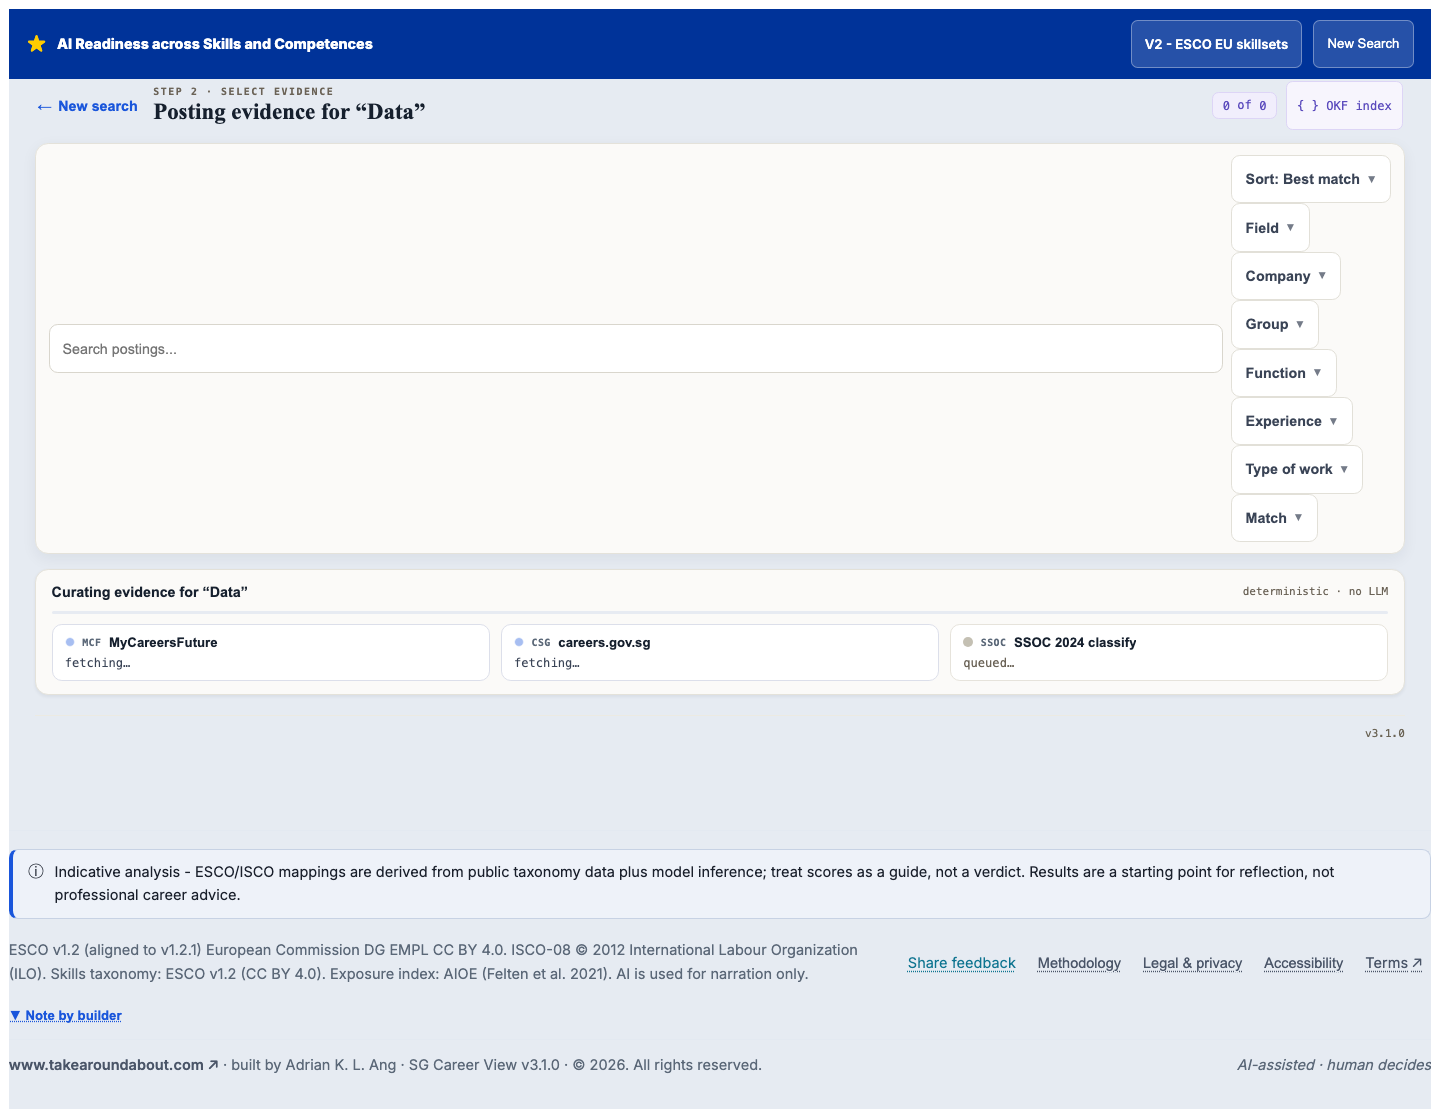
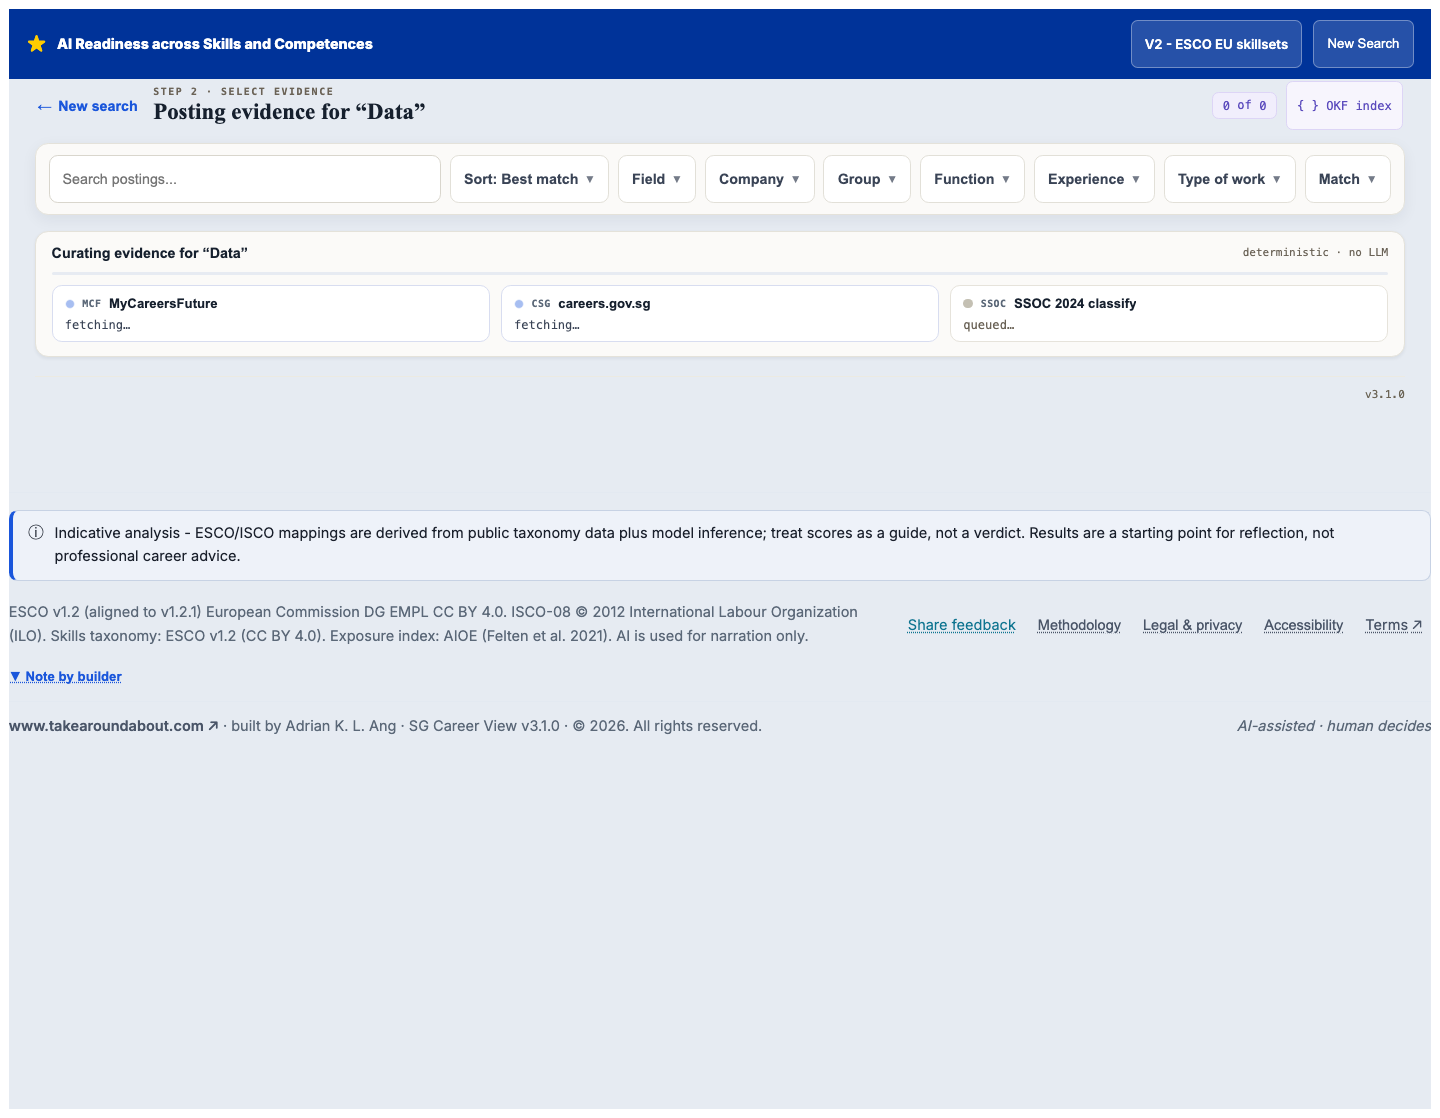
Keep Step 2 desktop filters compact (#485)
* fix(v3.1): keep Step 2 desktop filters compact

* docs(v3.1): refresh Step 2 toolbar evidence

diff --git a/v3.1/doc/V3-Step2-Agent-Readable-Feature-Map.html b/v3.1/doc/V3-Step2-Agent-Readable-Feature-Map.html
@@ -213,7 +213,7 @@
       <aside class="meta" aria-label="Map metadata">
         <p><strong>Manifest</strong><a href="v3-step2-feature-map.manifest.json">v3-step2-feature-map.manifest.json</a></p>
         <p><strong>Implementation source</strong><code>v3.1/src/App.jsx :: PostingEvidencePicker</code></p>
-        <p><strong>Source baseline</strong><code>7da49403434d5c2791e70a36440ba19fe120efa6</code></p>
+        <p><strong>Source baseline</strong><code>1a043664434ae9c3c2cd21850ed23df50138fb66</code></p>
         <p><strong>Boundary</strong>Audit corrections only; no Step 2 workflow redesign.</p>
       </aside>
     </header>
@@ -270,8 +270,8 @@
       <article class="node filter" data-feature-id="FEAT-STEP2-FILTER-001">
         <div class="id">FEAT-STEP2-FILTER-001</div>
         <h3>Derived Filters</h3>
-        <p>Search, sort and facets recompute the derived list. Clear all restores the merged source set without re-fetching.</p>
-        <div class="tag-row"><span class="tag">STATE-STEP2-FILTER-001</span><span class="tag">TRANS-STEP2-CLEAR-001</span></div>
+        <p>Search, sort and facets recompute the derived list. Clear all restores the merged source set without re-fetching. At 1440px the toolbar remains within two rows and 120px height.</p>
+        <div class="tag-row"><span class="tag">STATE-STEP2-FILTER-001</span><span class="tag">TRANS-STEP2-CLEAR-001</span><span class="tag">INV-STEP2-DESKTOP-FILTERBAR-001</span></div>
       </article>
       <article class="node classify" data-feature-id="FEAT-STEP2-CLASSIFY-001">
         <div class="id">FEAT-STEP2-CLASSIFY-001</div>
@@ -398,23 +398,23 @@
       <tbody>
         <tr>
           <td><code>implementationCommit</code></td>
-          <td><code>7da49403434d5c2791e70a36440ba19fe120efa6</code></td>
-          <td>Verified implementation commit on the audit-fix branch.</td>
+          <td><code>1a043664434ae9c3c2cd21850ed23df50138fb66</code></td>
+          <td>Verified compact desktop-toolbar follow-up on the merged audit implementation.</td>
         </tr>
         <tr>
           <td><code>mergeCommit</code></td>
           <td><code>NOT_MERGED</code></td>
-          <td>No merge commit or PR merge is claimed for this revision.</td>
+          <td>The desktop toolbar follow-up is not merged.</td>
         </tr>
         <tr>
           <td><code>deploymentStatus</code></td>
           <td><code>NOT_DEPLOYED_OR_STATUS_VERIFIED</code></td>
-          <td>No Vercel, Railway or production deployment is claimed for the audit-fix commit.</td>
+          <td>PR #484 is deployed; this follow-up commit is not.</td>
         </tr>
         <tr>
           <td><code>physicalRuntimeVerification</code></td>
-          <td><code>NOT_VERIFIED_FOR_AUDIT_FIX</code></td>
-          <td>Browser fixture screenshots are recorded separately from physical phone production evidence.</td>
+          <td><code>NOT_VERIFIED_FOR_CURRENT_HEAD</code></td>
+          <td>Local Chromium fixtures pass; no deployed-runtime or physical-device claim is made for this commit.</td>
         </tr>
       </tbody>
     </table>

diff --git a/v3.1/doc/V3-Step3-Agent-Readable-Feature-Map.html b/v3.1/doc/V3-Step3-Agent-Readable-Feature-Map.html
@@ -157,9 +157,9 @@
       <thead><tr><th>Field</th><th>Status</th><th>Meaning</th></tr></thead>
       <tbody>
         <tr><td>Implementation commit</td><td><code>7da49403434d5c2791e70a36440ba19fe120efa6</code></td><td>Verified implementation commit on the audit-fix branch.</td></tr>
-        <tr><td>Merge commit</td><td><code>NOT_MERGED</code></td><td>No merge commit or PR merge is claimed for this revision.</td></tr>
-        <tr><td>Deployment status</td><td><code>NOT_DEPLOYED_OR_STATUS_VERIFIED</code></td><td>No Vercel, Railway or production deployment is claimed.</td></tr>
-        <tr><td>Physical runtime</td><td><code>NOT_VERIFIED_FOR_AUDIT_FIX</code></td><td>Chromium evidence is not represented as physical-device production evidence.</td></tr>
+        <tr><td>Merge commit</td><td><code>2c0146be34ee3ea87e11d7b9c40b52bce42b0095</code></td><td>PR #484 merged to main at 17:32 SGT on 2 September 2026.</td></tr>
+        <tr><td>Deployment status</td><td><code>SUCCESS</code></td><td>Both Railway services and both Vercel projects reported success for the merge commit.</td></tr>
+        <tr><td>Physical runtime</td><td><code>DEPLOYED_CHROMIUM_VERIFIED_NOT_PHYSICAL_DEVICE</code></td><td>The deployed origin passed deterministic Chromium journeys; no physical phone or Safari claim is made.</td></tr>
       </tbody>
     </table>
 

diff --git a/v3.1/src/App.jsx b/v3.1/src/App.jsx
@@ -13537,7 +13537,8 @@ function PostingEvidencePicker({ query, freshGrad, onAnalysePosting, onNewSearch
             <span aria-hidden="true">{mobileFiltersOpen ? "\u25b4" : "\u25be"}</span>
           </button>
         )}
-        <div id="step2-filter-controls" className="step2-filter-controls" hidden={isPhone && !mobileFiltersOpen}>
+        <div id="step2-filter-controls" className="step2-filter-controls" hidden={isPhone && !mobileFiltersOpen}
+          style={isPhone ? undefined : { display: "flex", flex: "0 0 auto", maxWidth: "100%", alignItems: "center", gap: 8, flexWrap: "wrap" }}>
           <div className="step2-sort" style={{ position: "relative", flex: "none" }}>
             <button type="button" onClick={() => setOpenFacet(openFacet === "sort" ? null : "sort")} aria-expanded={openFacet === "sort"} title="Change sort order" style={{ display: "flex", alignItems: "center", gap: 6, minHeight: 44, padding: "0 12px", cursor: "pointer", background: "#fff", color: "#3a4456", border: "1px solid #e2e0d8", borderRadius: 8, fontFamily: "'Spline Sans',sans-serif", fontSize: "0.8125rem", fontWeight: 600, whiteSpace: "nowrap" }}>Sort: {sortLabel} <span aria-hidden="true" style={{ fontSize: 9, opacity: 0.7 }}>&#9660;</span></button>
             {openFacet === "sort" && (

diff --git a/v3.1/doc/V3-Agent-Readable-Feature-Map-Index.html b/v3.1/doc/V3-Agent-Readable-Feature-Map-Index.html
@@ -261,17 +261,17 @@
         </tr>
         <tr>
           <td><code>MAP-V3-STEP2-001</code></td>
-          <td><code>7da49403434d5c2791e70a36440ba19fe120efa6</code></td>
+          <td><code>1a043664434ae9c3c2cd21850ed23df50138fb66</code></td>
           <td><code>NOT_MERGED</code></td>
           <td><code>NOT_DEPLOYED_OR_STATUS_VERIFIED</code></td>
-          <td><code>NOT_VERIFIED_FOR_AUDIT_FIX</code></td>
+          <td><code>NOT_VERIFIED_FOR_CURRENT_HEAD</code></td>
         </tr>
         <tr>
           <td><code>MAP-V3-STEP3-001</code></td>
           <td><code>7da49403434d5c2791e70a36440ba19fe120efa6</code></td>
-          <td><code>NOT_MERGED</code></td>
-          <td><code>NOT_DEPLOYED_OR_STATUS_VERIFIED</code></td>
-          <td><code>NOT_VERIFIED_FOR_AUDIT_FIX</code></td>
+          <td><code>2c0146be34ee3ea87e11d7b9c40b52bce42b0095</code>, PR #484</td>
+          <td><code>SUCCESS</code></td>
+          <td><code>DEPLOYED_CHROMIUM_VERIFIED_NOT_PHYSICAL_DEVICE</code></td>
         </tr>
       </tbody>
     </table>
